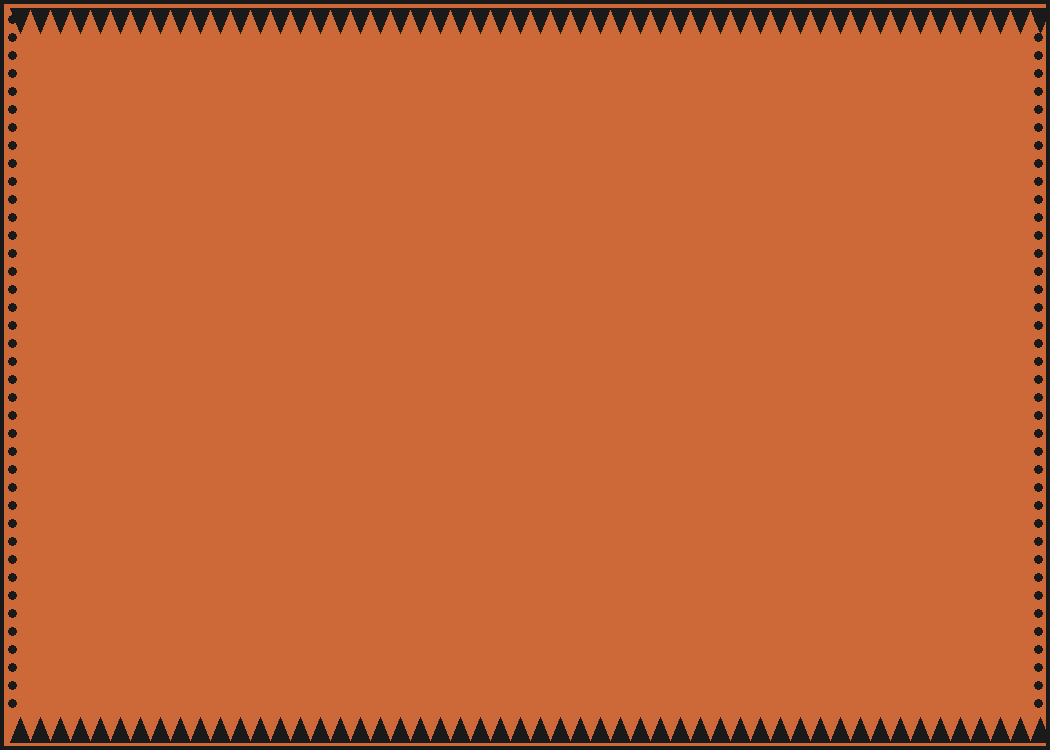
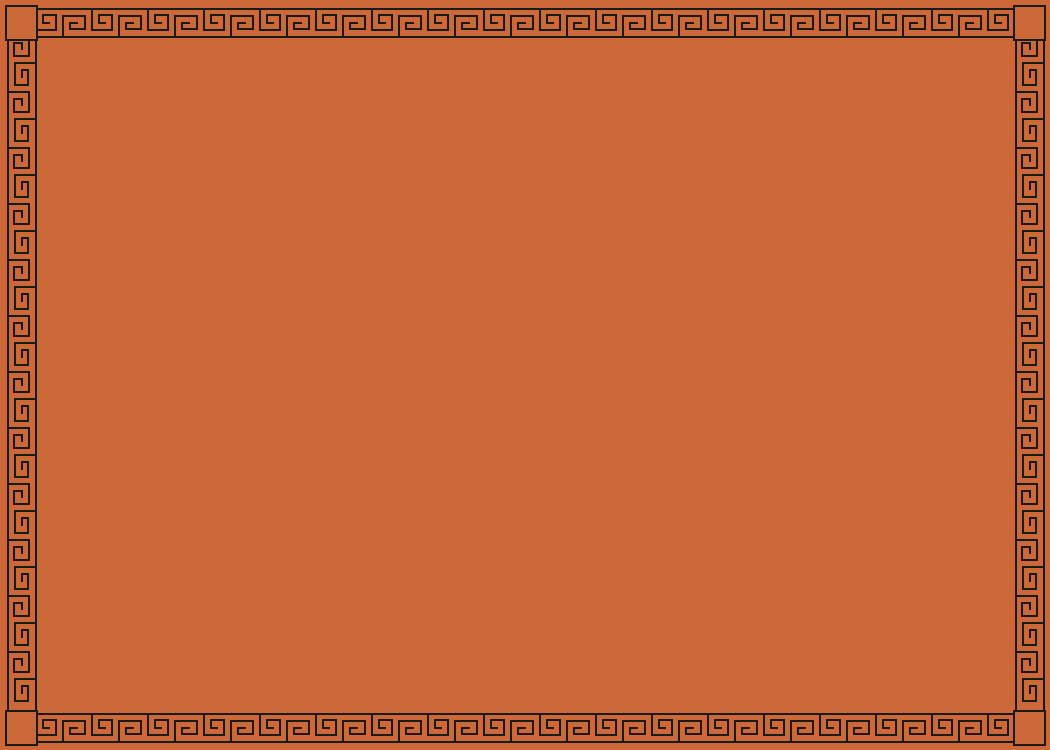
Replace all borders with Greek key meander pattern
- Add vertical meander function for side borders
- Update card front with meanders on all 4 sides
- Update card back with meanders on all 4 sides
- Add corner squares to connect borders

Changed region(s): [[0.0, 0.0, 1.0, 1.0]]

diff --git a/src/greek_design_system.py b/src/greek_design_system.py
@@ -141,6 +141,63 @@ def draw_greek_key_border(
             draw.line([(ux + step * 2, top_y + step * 2), (ux + step * 2, bottom_y - step * 2)], fill=fg, width=line_width)
 
 
+def draw_greek_key_border_vertical(
+    draw: ImageDraw,
+    x: int, y: int,
+    width: int, height: int,
+    key_size: int = 20,
+    fg_color: str = None,
+    bg_color: str = None,
+    line_width: int = 3
+):
+    """
+    Draw a vertical Greek key (meander) pattern border.
+
+    Same as horizontal but rotated 90 degrees for side borders.
+    """
+    fg = fg_color or PALETTE.black
+    bg = bg_color or PALETTE.terracotta
+
+    # Fill background
+    draw.rectangle([x, y, x + width, y + height], fill=bg)
+
+    # Calculate dimensions
+    unit_height = key_size
+    margin_x = (width - key_size) // 2
+    left_x = x + margin_x
+    right_x = x + margin_x + key_size
+
+    # Draw left and right border lines
+    draw.line([(left_x, y), (left_x, y + height)], fill=fg, width=line_width)
+    draw.line([(right_x, y), (right_x, y + height)], fill=fg, width=line_width)
+
+    # Draw the meander pattern - vertical version
+    num_units = height // unit_height
+    step = key_size // 4
+
+    for i in range(num_units):
+        uy = y + i * unit_height
+
+        if i % 2 == 0:
+            # Rightward spiral (starts from left line)
+            draw.line([(left_x, uy), (right_x - step, uy)], fill=fg, width=line_width)
+            draw.line([(right_x - step, uy), (right_x - step, uy + step * 3)], fill=fg, width=line_width)
+            draw.line([(right_x - step, uy + step * 3), (left_x + step, uy + step * 3)], fill=fg, width=line_width)
+            draw.line([(left_x + step, uy + step * 3), (left_x + step, uy + step)], fill=fg, width=line_width)
+            draw.line([(left_x + step, uy + step), (right_x - step * 2, uy + step)], fill=fg, width=line_width)
+            draw.line([(right_x - step * 2, uy + step), (right_x - step * 2, uy + step * 2)], fill=fg, width=line_width)
+            draw.line([(right_x - step * 2, uy + step * 2), (left_x + step * 2, uy + step * 2)], fill=fg, width=line_width)
+        else:
+            # Leftward spiral (starts from right line)
+            draw.line([(right_x, uy), (left_x + step, uy)], fill=fg, width=line_width)
+            draw.line([(left_x + step, uy), (left_x + step, uy + step * 3)], fill=fg, width=line_width)
+            draw.line([(left_x + step, uy + step * 3), (right_x - step, uy + step * 3)], fill=fg, width=line_width)
+            draw.line([(right_x - step, uy + step * 3), (right_x - step, uy + step)], fill=fg, width=line_width)
+            draw.line([(right_x - step, uy + step), (left_x + step * 2, uy + step)], fill=fg, width=line_width)
+            draw.line([(left_x + step * 2, uy + step), (left_x + step * 2, uy + step * 2)], fill=fg, width=line_width)
+            draw.line([(left_x + step * 2, uy + step * 2), (right_x - step * 2, uy + step * 2)], fill=fg, width=line_width)
+
+
 def draw_triangle_border(
     draw: ImageDraw,
     x: int, y: int,
@@ -288,54 +345,52 @@ def generate_greek_card_front(
     Generate a card front with Greek pottery styling.
 
     Layout:
-    - Outer triangle border
-    - Greek key border
-    - Inner dot border
+    - Greek key meander borders on all four sides
     - Central area for minotaur art and text
     """
     img = Image.new('RGB', (width, height), PALETTE.terracotta)
     draw = ImageDraw.Draw(img)
 
-    # Outer black border line
-    draw.rectangle([0, 0, width-1, height-1], outline=PALETTE.black, width=3)
+    key_size = 32
+    line_w = 3
 
-    # Top border - triangles pointing down
-    draw_triangle_border(
+    # Top border - horizontal meander
+    draw_greek_key_border(
         draw, border_width, 5,
-        width - 2 * border_width, 30,
-        triangle_width=22, pointing="down"
+        width - 2 * border_width, 45,
+        key_size=key_size,
+        line_width=line_w
     )
 
-    # Bottom border - triangles pointing up
-    draw_triangle_border(
-        draw, border_width, height - 35,
-        width - 2 * border_width, 30,
-        triangle_width=22, pointing="up"
-    )
-
-    # Greek key border below top triangles
+    # Bottom border - horizontal meander
     draw_greek_key_border(
-        draw, border_width, 38,
-        width - 2 * border_width, 40,
-        key_size=32,
-        line_width=3
+        draw, border_width, height - 50,
+        width - 2 * border_width, 45,
+        key_size=key_size,
+        line_width=line_w
     )
 
-    # Greek key border above bottom triangles
-    draw_greek_key_border(
-        draw, border_width, height - 78,
-        width - 2 * border_width, 40,
-        key_size=32,
-        line_width=3
+    # Left side - vertical meander
+    draw_greek_key_border_vertical(
+        draw, 5, border_width,
+        40, height - 2 * border_width,
+        key_size=key_size,
+        line_width=line_w
     )
 
-    # Left side decorative border (vertical dots)
-    for i in range(10, height - 40, 20):
-        draw.ellipse([12, i, 22, i + 10], fill=PALETTE.black)
+    # Right side - vertical meander
+    draw_greek_key_border_vertical(
+        draw, width - 45, border_width,
+        40, height - 2 * border_width,
+        key_size=key_size,
+        line_width=line_w
+    )
 
-    # Right side decorative border (vertical dots)
-    for i in range(10, height - 40, 20):
-        draw.ellipse([width - 22, i, width - 12, i + 10], fill=PALETTE.black)
+    # Corner squares to connect borders
+    draw.rectangle([5, 5, 45, 50], fill=PALETTE.terracotta, outline=PALETTE.black, width=line_w)
+    draw.rectangle([width - 45, 5, width - 5, 50], fill=PALETTE.terracotta, outline=PALETTE.black, width=line_w)
+    draw.rectangle([5, height - 50, 45, height - 5], fill=PALETTE.terracotta, outline=PALETTE.black, width=line_w)
+    draw.rectangle([width - 45, height - 50, width - 5, height - 5], fill=PALETTE.terracotta, outline=PALETTE.black, width=line_w)
 
     # Add texture
     if add_texture:
@@ -347,35 +402,55 @@ def generate_greek_card_front(
 def generate_greek_card_back(
     width: int = 1050,
     height: int = 750,
-    border_width: int = 30
+    border_width: int = 35
 ) -> Image:
     """
     Generate a card back template for the maze.
-    Simpler borders to leave room for the maze.
+    Meander borders on all sides, leaving room for the maze.
     """
     img = Image.new('RGB', (width, height), PALETTE.terracotta)
     draw = ImageDraw.Draw(img)
 
-    # Simple black border
-    draw.rectangle([0, 0, width-1, height-1], outline=PALETTE.black, width=4)
+    key_size = 28
+    line_w = 2
 
-    # Triangle borders only
-    draw_triangle_border(
-        draw, 10, 8,
-        width - 20, 25,
-        triangle_width=20, pointing="down"
+    # Top border - horizontal meander
+    draw_greek_key_border(
+        draw, border_width, 5,
+        width - 2 * border_width, 35,
+        key_size=key_size,
+        line_width=line_w
     )
 
-    draw_triangle_border(
-        draw, 10, height - 33,
-        width - 20, 25,
-        triangle_width=20, pointing="up"
+    # Bottom border - horizontal meander
+    draw_greek_key_border(
+        draw, border_width, height - 40,
+        width - 2 * border_width, 35,
+        key_size=key_size,
+        line_width=line_w
     )
 
-    # Side dots
-    for i in range(15, height - 35, 18):
-        draw.ellipse([8, i, 16, i + 8], fill=PALETTE.black)
-        draw.ellipse([width - 16, i, width - 8, i + 8], fill=PALETTE.black)
+    # Left side - vertical meander
+    draw_greek_key_border_vertical(
+        draw, 5, border_width,
+        32, height - 2 * border_width,
+        key_size=key_size,
+        line_width=line_w
+    )
+
+    # Right side - vertical meander
+    draw_greek_key_border_vertical(
+        draw, width - 37, border_width,
+        32, height - 2 * border_width,
+        key_size=key_size,
+        line_width=line_w
+    )
+
+    # Corner squares
+    draw.rectangle([5, 5, 37, 40], fill=PALETTE.terracotta, outline=PALETTE.black, width=line_w)
+    draw.rectangle([width - 37, 5, width - 5, 40], fill=PALETTE.terracotta, outline=PALETTE.black, width=line_w)
+    draw.rectangle([5, height - 40, 37, height - 5], fill=PALETTE.terracotta, outline=PALETTE.black, width=line_w)
+    draw.rectangle([width - 37, height - 40, width - 5, height - 5], fill=PALETTE.terracotta, outline=PALETTE.black, width=line_w)
 
     return img
 
